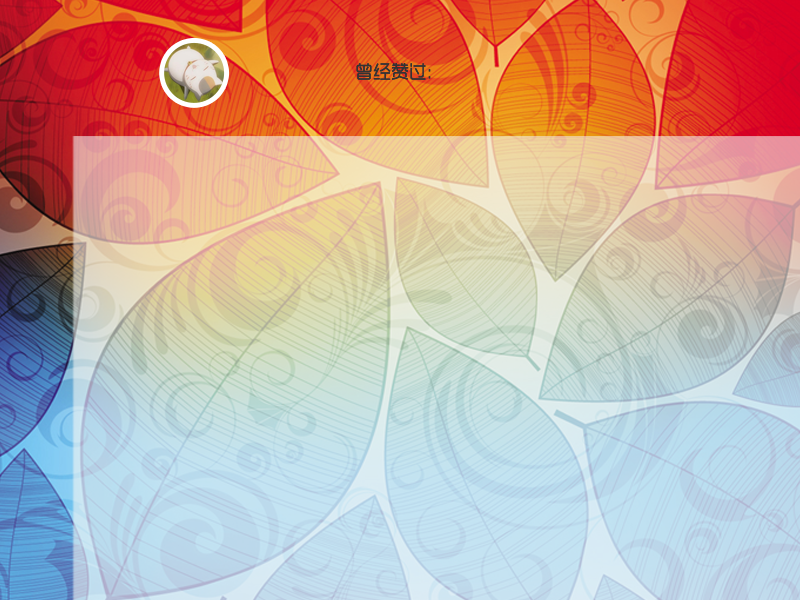
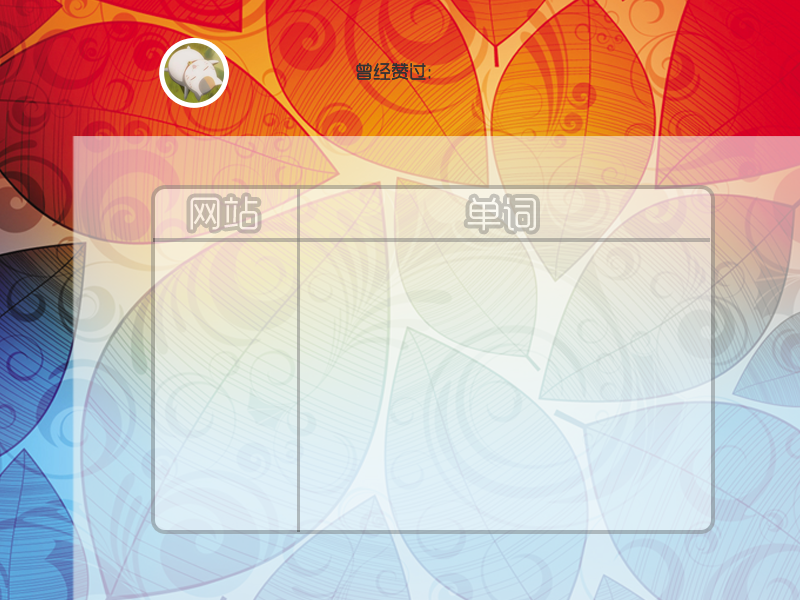
adjust Jlist on likePage and userPage2 zgy

diff --git a/DictionaryClient/src/client/UImain.java b/DictionaryClient/src/client/UImain.java
@@ -378,48 +378,7 @@ public class UImain extends JFrame{
 					return;
 				}
 				homePage();
-				txOut[0].setText("正在服务器上查找...");
-				txOut[1].setText("正在服务器上查找...");
-				txOut[2].setText("正在服务器上查找...");
-				txOut[0].repaint();
-				txOut[1].repaint();
-				txOut[2].repaint();
-				ServiceProvider.getExplanation(currentWord);
-				if (WordEntry.getExplanation(0) == null) {
-					txOut[0].setText("");
-					txOut[1].setText("");
-					txOut[2].setText("");
-					return;
-				}
-				ArrayList<Explanation> outputList = new ArrayList<Explanation>();
-				for (int i = 0; i < 3; i ++) {
-					String source = WordEntry.getExplanation(i).getSource();
-					if (source.equals("baidu")) {
-						if (baidu.isSelected()) {
-							outputList.add(WordEntry.getExplanation(i));
-						}
-					}
-					else if (source.equals("bing")) {
-						if (bing.isSelected()) {
-							outputList.add(WordEntry.getExplanation(i));
-						}
-					}
-					else {
-						if (youdao.isSelected()) {
-							outputList.add(WordEntry.getExplanation(i));
-						}
-					}
-				}
-				for (int i = 0; i < outputList.size(); i ++) {
-					txOut[i].setText(outputList.get(i).getExplanation());
-					if (i==0) {
-						part1();
-					}else if (i==1) {
-						part2();
-					}else if (i==2) {
-						part3();
-					}else ;
-				}
+				homeSearch();
 			}
 		});
 
@@ -427,6 +386,7 @@ public class UImain extends JFrame{
 			@Override
 			public void actionPerformed(ActionEvent e) {
 				homePage();
+				homeSearch();
 			}
 		});
 
@@ -554,6 +514,51 @@ public class UImain extends JFrame{
 		wordCardfFrame.setVisible(true);
 		wordCardfFrame.repaint();
 		}
+	private void homeSearch(){
+		String currentWord = txInput.getText();
+		txOut[0].setText("正在服务器上查找...");
+		txOut[1].setText("正在服务器上查找...");
+		txOut[2].setText("正在服务器上查找...");
+		txOut[0].repaint();
+		txOut[1].repaint();
+		txOut[2].repaint();
+		ServiceProvider.getExplanation(currentWord);
+		if (WordEntry.getExplanation(0) == null) {
+			txOut[0].setText("");
+			txOut[1].setText("");
+			txOut[2].setText("");
+			return;
+		}
+		ArrayList<Explanation> outputList = new ArrayList<Explanation>();
+		for (int i = 0; i < 3; i ++) {
+			String source = WordEntry.getExplanation(i).getSource();
+			if (source.equals("baidu")) {
+				if (baidu.isSelected()) {
+					outputList.add(WordEntry.getExplanation(i));
+				}
+			}
+			else if (source.equals("bing")) {
+				if (bing.isSelected()) {
+					outputList.add(WordEntry.getExplanation(i));
+				}
+			}
+			else {
+				if (youdao.isSelected()) {
+					outputList.add(WordEntry.getExplanation(i));
+				}
+			}
+		}
+		for (int i = 0; i < outputList.size(); i ++) {
+			txOut[i].setText(outputList.get(i).getExplanation());
+			if (i==0) {
+				part1();
+			}else if (i==1) {
+				part2();
+			}else if (i==2) {
+				part3();
+			}else ;
+		}
+	}
 	private class wordCardpanel extends JPanel{
 		public void paintComponent(Graphics g) {
 			Graphics2D g2 = (Graphics2D)g;
@@ -924,8 +929,10 @@ public class UImain extends JFrame{
 		userMarkJLabel.setBounds(0,400,80,200);
 		JScrollPane onl=new JScrollPane(onlineJList);
 		JScrollPane offl=new JScrollPane(offlineJList);
-		onl.setBounds(176,303,200,220);
-		offl.setBounds(476,303,200,220);
+		onl.setBounds(166,303,200,220);
+		offl.setBounds(466,303,200,220);
+		onl.setBorder(new EmptyBorder(0,0,0,0));
+		offl.setBorder(new EmptyBorder(0,0,0,0));
 		add(onl);
 		add(offl);
 		add(likeButton);
@@ -956,8 +963,10 @@ public class UImain extends JFrame{
 		likeMarkJLabel.setBounds(0, 0, 80, 200);
 		JScrollPane onl=new JScrollPane(onlineJList);
 		JScrollPane offl=new JScrollPane(offlineJList);
-		onl.setBounds(176,303,200,220);
-		offl.setBounds(476,303,200,220);
+		onl.setBounds(320,247,350,240);//解释
+		offl.setBounds(178,247,90,240);//网站
+		onl.setBorder(new EmptyBorder(0,0,0,0));
+		offl.setBorder(new EmptyBorder(0,0,0,0));
 		//add(likeButton);
 		add(onl);
 		add(offl);
@@ -985,7 +994,7 @@ public class UImain extends JFrame{
     		welcomeUser.setOpaque(false);
     		welcomeUser.setFont(new Font("微软雅黑",Font.BOLD , 16));
     		welcomeUser.setText(UserInfo.getName());
-    		welcomeUser.setForeground(Color.white);
+    		welcomeUser.setForeground(Color.black);
     		welcomeUser.setEditable(false);
     		remove(login);
     		remove(register);
